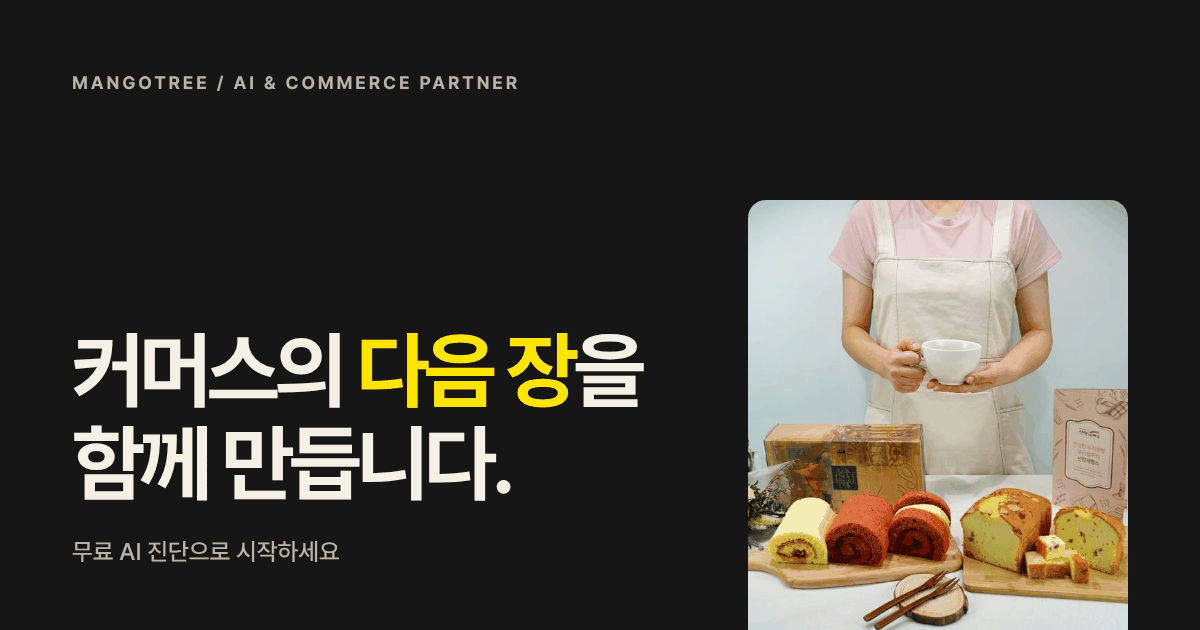
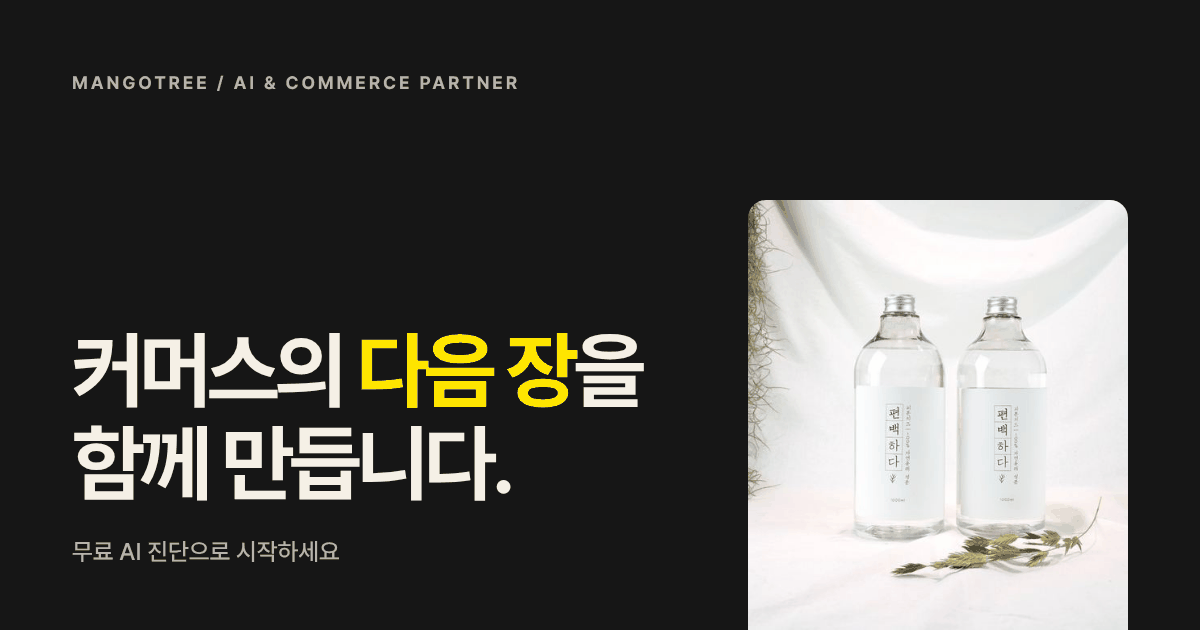
Replace the main product photo with the bottle shoot
The hero collage's product tile now uses the Drive product shoot
(DSC02741.jpg, received as a 2000x1333 attachment) optimized to 1600/800px;
the previous person-and-bakery photo files are removed and the OG image is
regenerated. Below 960px the tile keeps a 3:2 ratio so both bottles and the
product name stay uncropped at 1440/1024/390/320.

Claude-Session: https://claude.ai/code/session_013fr5egeuLoPoF5PAHq2igq

Changed region(s): [[0.6167, 0.3016, 0.9558, 1.0]]

diff --git a/index.html b/index.html
@@ -44,7 +44,7 @@
     </div>
   </div>
   <div class="h-collage" aria-label="망고트리 작업물">
-    <figure class="c1"><img src="assets/work/product-shoot-1600.jpg" srcset="assets/work/product-shoot-800.jpg 800w, assets/work/product-shoot-1600.jpg 1600w" sizes="(max-width:560px) 100vw, (max-width:960px) 100vw, 50vw" alt="베이커리 제품 연출 촬영" width="1600" height="1240" fetchpriority="high"><figcaption>제품 촬영</figcaption></figure>
+    <figure class="c1"><img src="assets/work/product-bottle-1600.jpg" srcset="assets/work/product-bottle-800.jpg 800w, assets/work/product-bottle-1600.jpg 1600w" sizes="(max-width:960px) 100vw, 50vw" alt="흰 패브릭과 식물을 배경으로 연출한 편백 제품 촬영" width="1600" height="1066" fetchpriority="high"><figcaption>제품 촬영</figcaption></figure>
     <figure class="c2"><img src="assets/work_02.png" alt="상세페이지 디자인 작업" width="440" height="600"><figcaption>상세페이지</figcaption></figure>
     <figure class="c3"><img src="assets/work_03.png" alt="스마트폰으로 촬영하는 마케팅 콘텐츠 촬영 장면" width="440" height="600"><figcaption>마케팅 콘텐츠</figcaption></figure>
     <figure class="c4"><img src="assets/inline/ee9852d745fa.jpg" alt="오뱅식당 쇼핑몰 홈페이지" width="340" height="460"><figcaption>홈페이지</figcaption></figure>

diff --git a/assets/home.css b/assets/home.css
@@ -29,7 +29,7 @@
 .h-collage{max-width:var(--maxw);margin:72px auto 0;padding:0 32px;display:grid;grid-template-columns:2.2fr 1fr 1fr 1fr;gap:14px;align-items:start}
 .h-collage figure{position:relative;margin:0;height:360px;border-radius:14px 14px 0 0;overflow:hidden;background:var(--charcoal-2)}
 .h-collage .c2,.h-collage .c4{margin-top:56px;height:304px}
-.h-collage .c1 img{object-position:center 60%}
+.h-collage .c1 img{object-position:53% 56%}
 .h-collage img{width:100%;height:100%;object-fit:cover;object-position:left top}
 .h-collage .c3 img{object-position:center}
 .h-collage figcaption{position:absolute;left:12px;bottom:12px;font-size:12.5px;font-weight:700;color:var(--charcoal);background:var(--ivory);padding:4px 10px;border-radius:999px}
@@ -167,3 +167,5 @@
 /* 검증된 화면이 없는 항목: 브랜드 없는 중립 블록으로 정렬만 맞춤 */
 .h-plat-ph{flex:none;width:112px;aspect-ratio:240/333;border-radius:12px;background:var(--ivory-2);border:1px solid rgba(22,22,22,.08)}
 @media(max-width:560px){.h-plat-ph{width:80px}}
+/* 제품 촬영(c1): 좁은 화면에서도 두 병과 제품명이 잘리지 않게 3:2 비율 유지 */
+@media(max-width:960px){.h-collage .c1{height:auto;aspect-ratio:3/2}}
